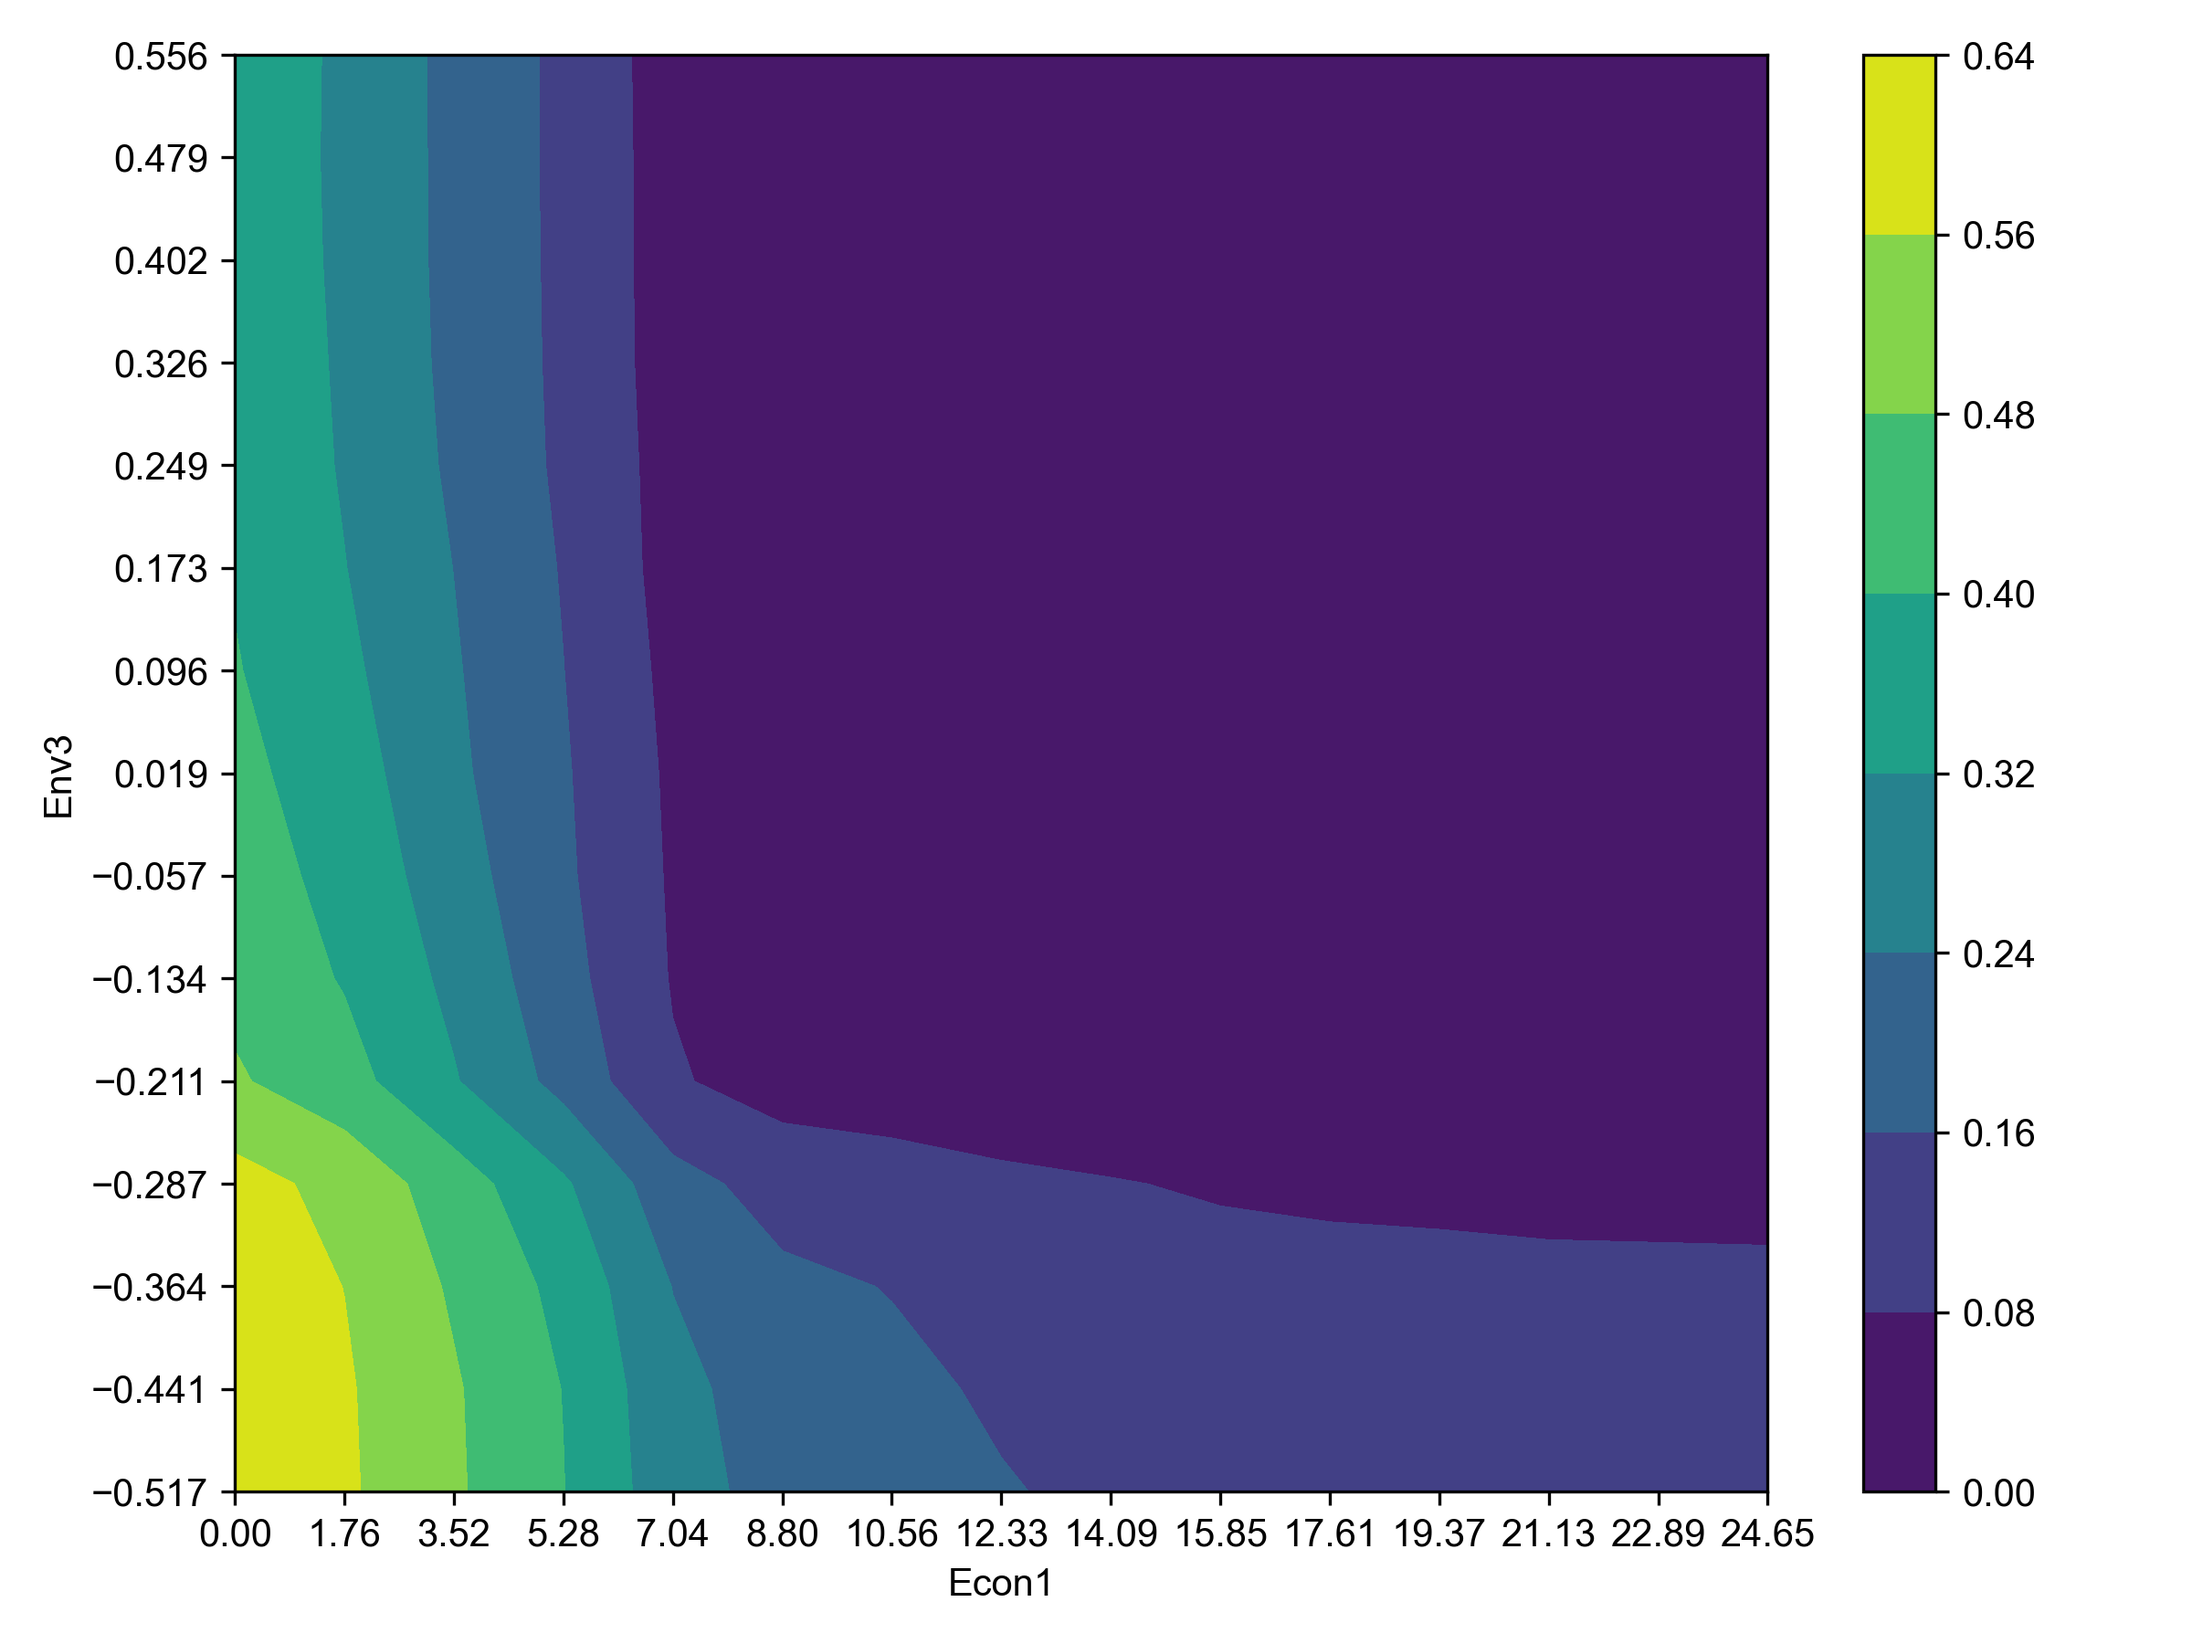
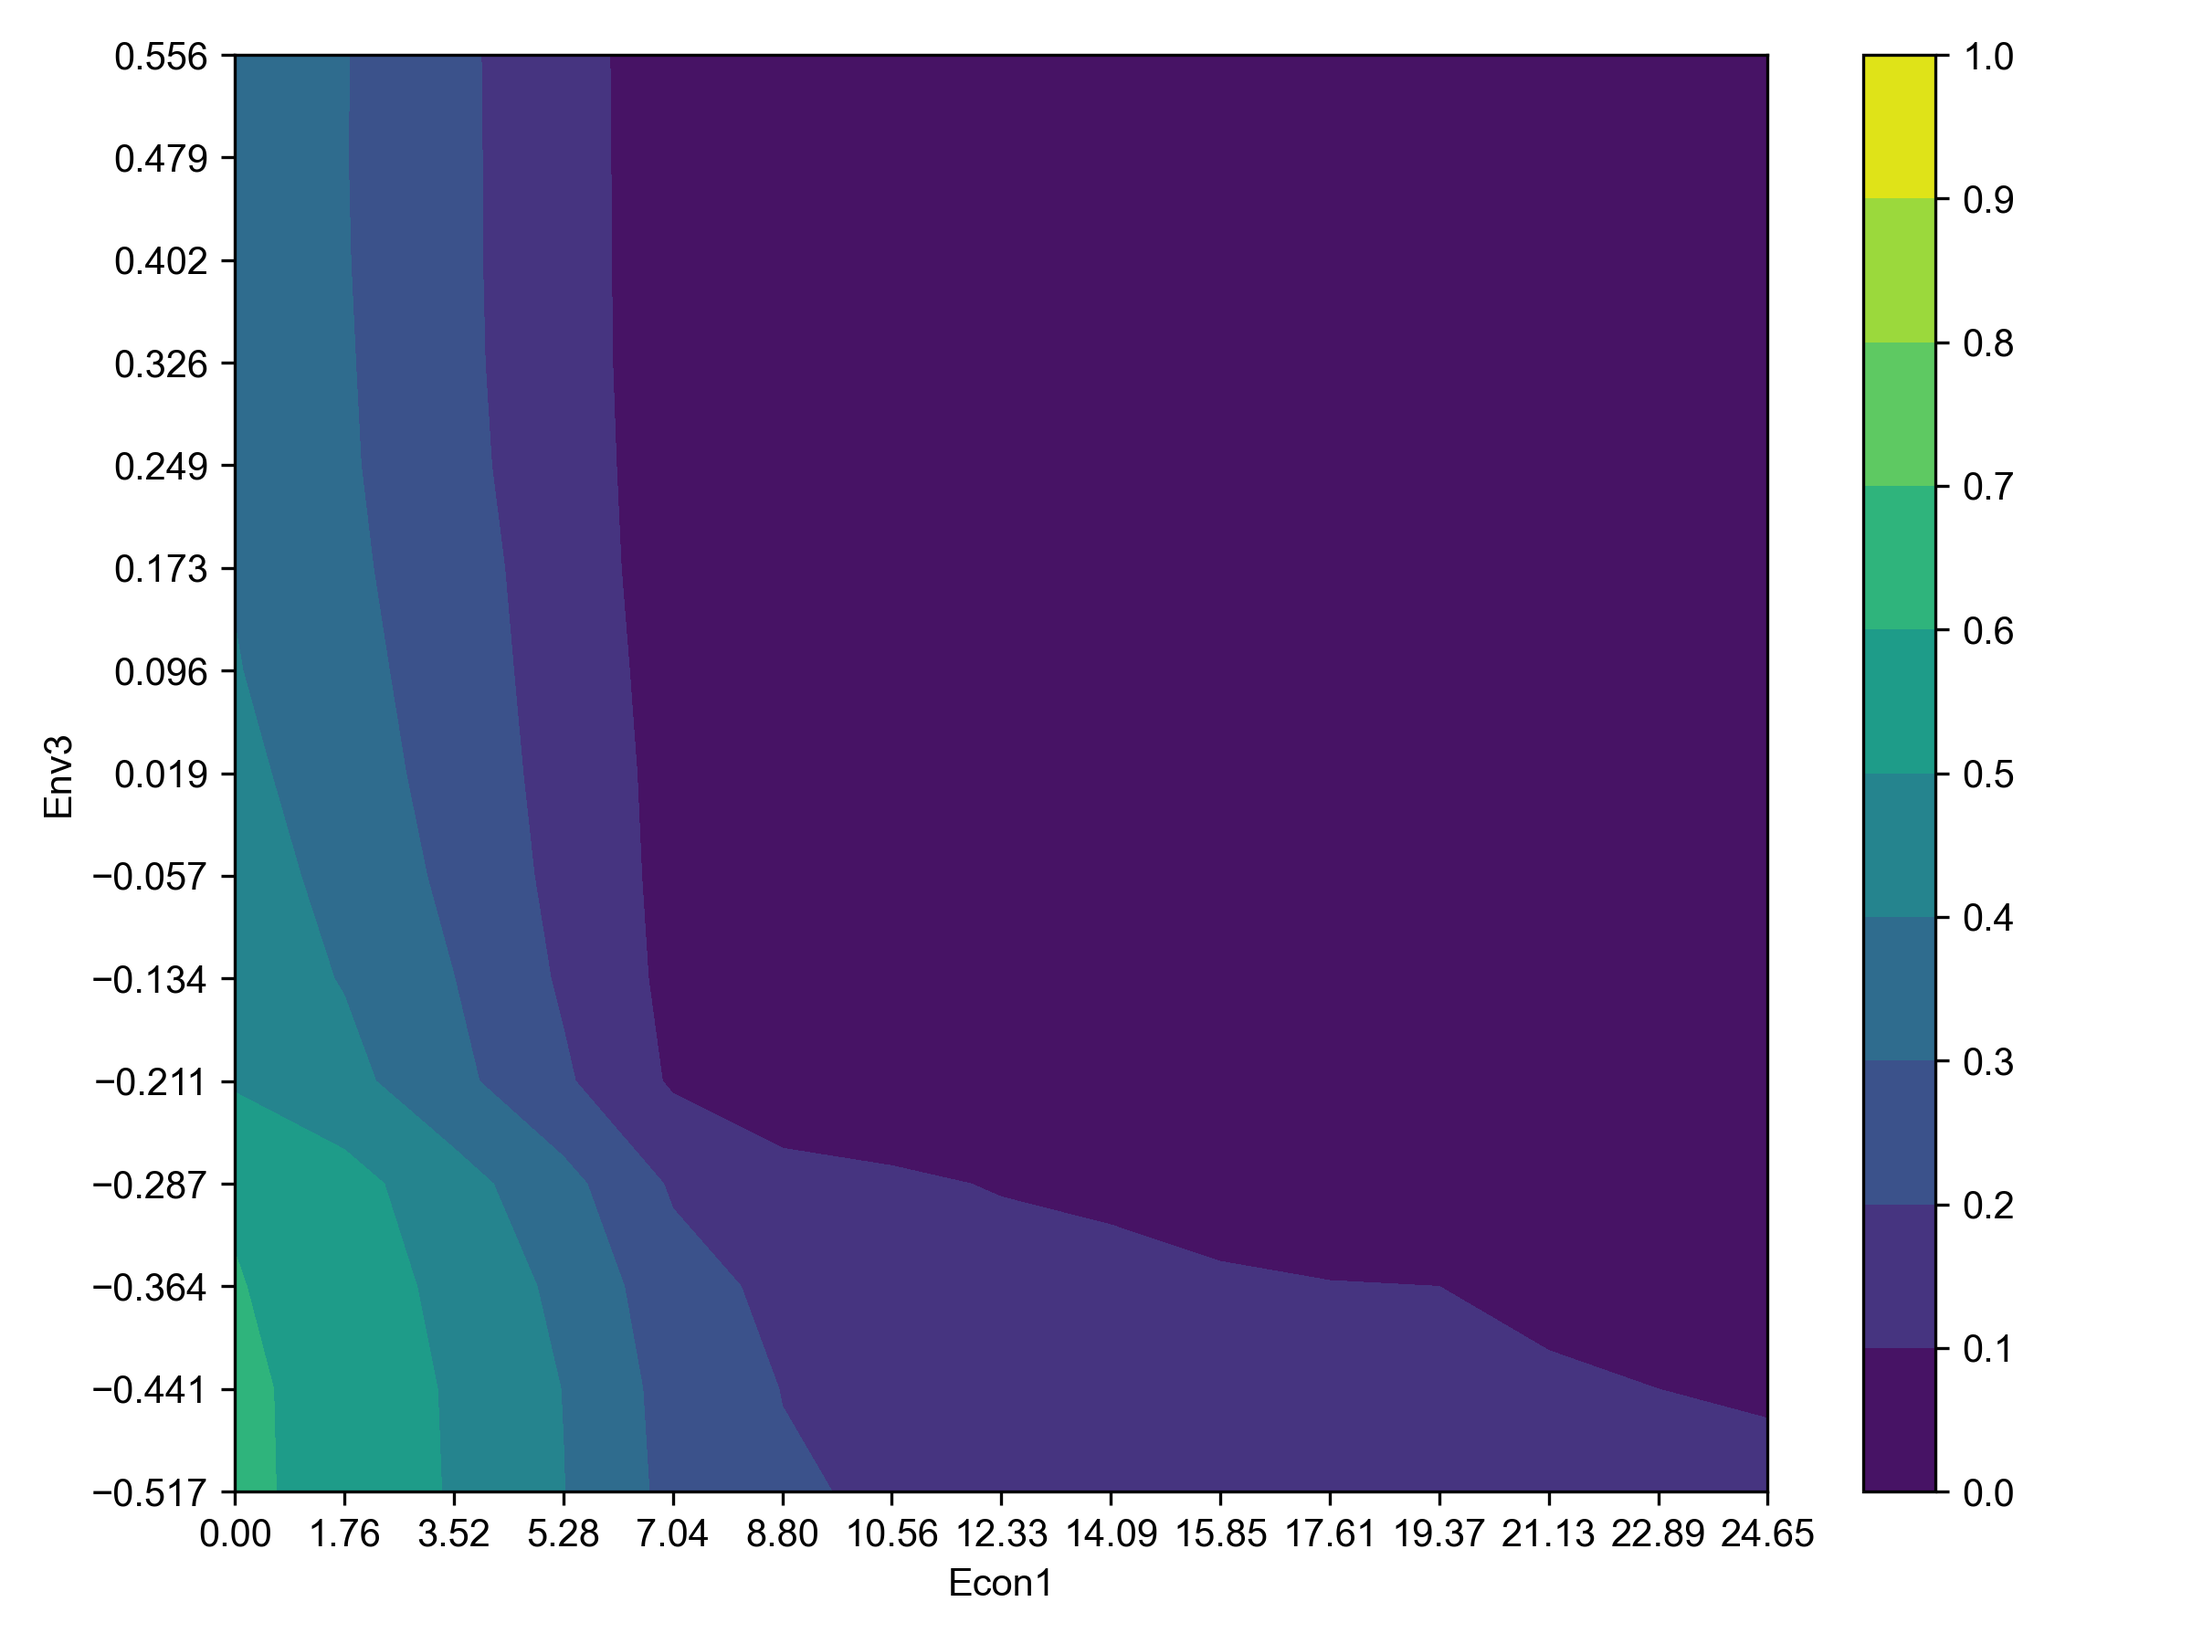
add settings for heatmap colorbar

diff --git a/dmsan/bwaise/improvements.py b/dmsan/bwaise/improvements.py
@@ -237,12 +237,16 @@ def plot_across_inds(df, file_path=''):
     '''
     Plot the heatmap of winning chances across two indicators.
     '''
+    # Update `vals1`/`vals2` if want to user alternative x/y tick values
     vals1 = df.iloc[:, 0].unique()
     vals2 = df.iloc[:, 1].unique()
     scores = df.iloc[:, 2].values
     fig, ax = plt.subplots(figsize=(8, 6))
-    contourf = ax.contourf(vals1, vals2, scores.reshape(len(vals1), len(vals2)))
-    ax.figure.colorbar(contourf)
+    ticks = np.linspace(0, 1, 11)
+    contourf = ax.contourf(
+        vals1, vals2, scores.reshape(len(vals1), len(vals2)), ticks,
+        vmin=0, vmax=1) # vim/vmax defines the min/max of the colorbar
+    ax.figure.colorbar(contourf, ticks=ticks)
     ax.set(xlabel=df.columns[0], ylabel=df.columns[1], xticks=vals1, yticks=vals2)
     if file_path is not None:
         file_path = file_path if file_path != '' \
